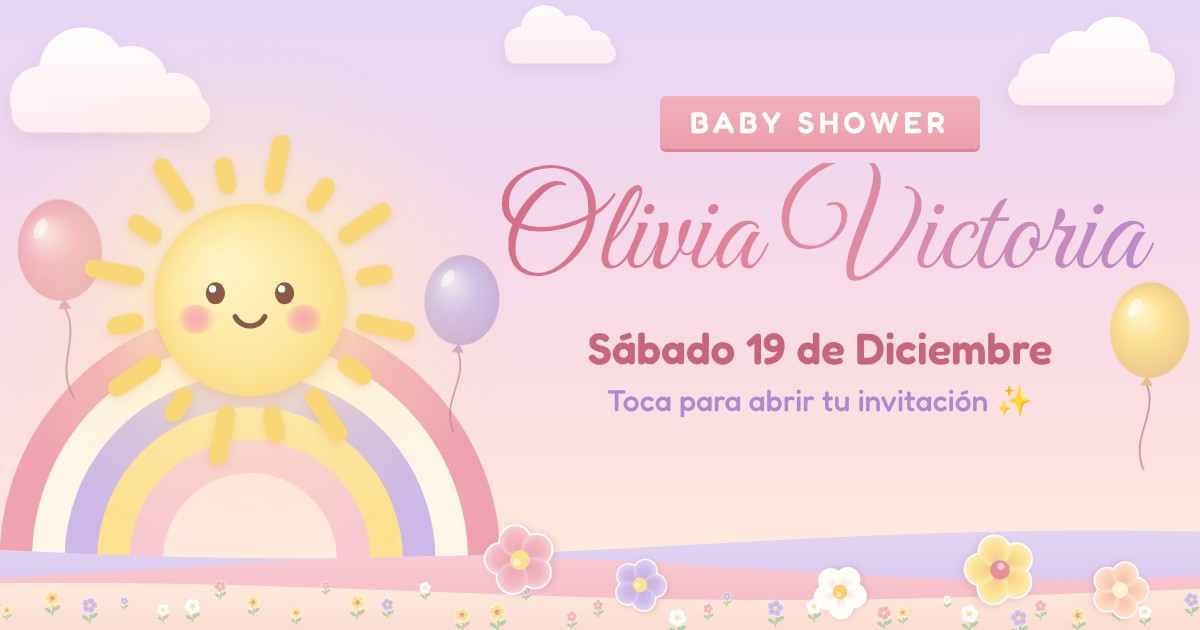
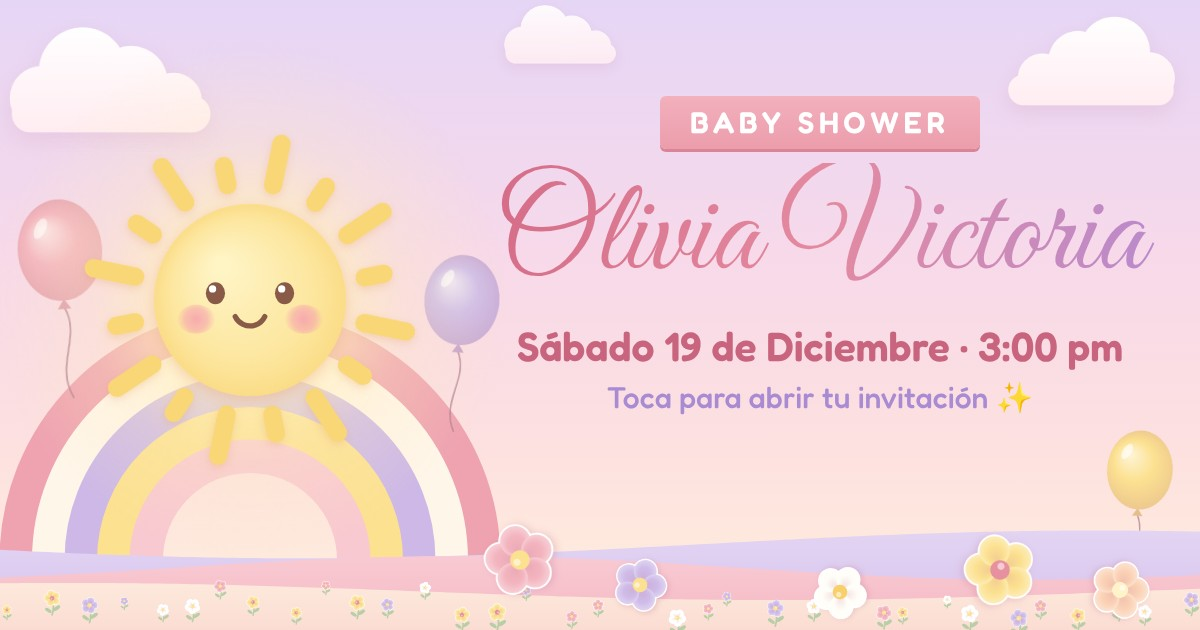
Hora del evento: 3:00 pm hora de Managua
Se muestra en la tarjeta y en la vista previa; la cuenta regresiva y el
evento de calendario usan la hora exacta (UTC-6).

Claude-Session: https://claude.ai/code/session_01DMYB1rQQsUbjXNTmh5CJFD

Changed region(s): [[0.4317, 0.4524, 1.0, 0.6635], [0.925, 0.6635, 0.9867, 0.8143]]

diff --git a/index.html b/index.html
@@ -4,13 +4,13 @@
 <meta charset="utf-8">
 <meta name="viewport" content="width=device-width, initial-scale=1, viewport-fit=cover, user-scalable=no">
 <title>Baby Shower de Olivia Victoria</title>
-<meta name="description" content="Acompáñanos a celebrar la dulce espera de Olivia Victoria. Sábado 19 de Diciembre · Residencial Sierras Doradas, Casa D-5.">
+<meta name="description" content="Acompáñanos a celebrar la dulce espera de Olivia Victoria. Sábado 19 de Diciembre, 3:00 pm · Residencial Sierras Doradas, Casa D-5.">
 <meta name="theme-color" content="#EBDCF6">
 <meta property="og:url" content="https://srbrightside.github.io/invitacion-babyshower/">
 <meta property="og:type" content="website">
 <meta property="og:locale" content="es_ES">
 <meta property="og:title" content="Baby Shower de Olivia Victoria ☀">
-<meta property="og:description" content="¡Estás invitado! Sábado 19 de Diciembre · Residencial Sierras Doradas, Casa D-5. Toca para abrir tu invitación.">
+<meta property="og:description" content="¡Estás invitado! Sábado 19 de Diciembre, 3:00 pm · Residencial Sierras Doradas, Casa D-5. Toca para abrir tu invitación.">
 <meta property="og:image" content="https://srbrightside.github.io/invitacion-babyshower/og.jpg">
 <meta property="og:image:width" content="1200">
 <meta property="og:image:height" content="630">
@@ -47,11 +47,16 @@
         <i></i>
       </div>
 
-      <div class="date rv" aria-label="Sábado 19 de Diciembre de 2026">
+      <div class="date rv" aria-label="Sábado 19 de Diciembre de 2026, 3:00 de la tarde">
         <span class="date-side">Sábado</span>
         <span class="date-day"><b>19</b><small>2026</small></span>
         <span class="date-side">Diciembre</span>
       </div>
+
+      <p class="time rv">
+        <svg viewBox="0 0 24 24" width="17" height="17" aria-hidden="true"><circle cx="12" cy="12" r="9" fill="none" stroke="currentColor" stroke-width="2.4"/><path d="M12 7v5.300l3.300 2" fill="none" stroke="currentColor" stroke-width="2.400" stroke-linecap="round" stroke-linejoin="round"/></svg>
+        3:00 pm
+      </p>
 
       <div class="countdown rv" id="countdown" aria-live="off">
         <div class="cd"><b id="cdD">--</b><span>días</span></div>
@@ -121,7 +126,7 @@
 <noscript>
   <div class="noscript">
     <h1>Baby Shower de Olivia Victoria Vargas Arce</h1>
-    <p>Sábado 19 de Diciembre · Residencial Sierras Doradas, Casa D-5</p>
+    <p>Sábado 19 de Diciembre, 3:00 pm · Residencial Sierras Doradas, Casa D-5</p>
     <p><a href="https://maps.app.goo.gl/cN2Evq2ijcGLDnuL6?g_st=ic">Cómo llegar</a></p>
   </div>
 </noscript>

diff --git a/js/main.js b/js/main.js
@@ -4,7 +4,7 @@ import {
 import { Sound } from './audio.js';
 
 // ───────────── Datos del evento ─────────────
-const EVENT = new Date(2026, 11, 19, 0, 0, 0); // Sábado 19 de diciembre de 2026
+const EVENT = new Date('2026-12-19T15:00:00-06:00'); // Sábado 19 de diciembre de 2026, 3:00 pm hora de Managua
 const GOAL = 10; // florecitas que lanza el Solcito para pintar el arcoíris
 
 const $ = (s) => document.querySelector(s);
@@ -485,7 +485,7 @@ function updateCountdown() {
   const ms = EVENT.getTime() - Date.now();
   if (ms <= 0) {
     el.countdown.hidden = true;
-    el.today.hidden = ms < -864e5;
+    el.today.hidden = ms < -9 * 36e5; // se muestra hasta la medianoche del día del evento
     return;
   }
   const s = Math.floor(ms / 1000);
@@ -724,7 +724,7 @@ if (navigator.share) {
   shareBtn.addEventListener('click', () => {
     navigator.share({
       title: 'Baby Shower de Olivia Victoria',
-      text: '¡Estás invitado al Baby Shower de Olivia Victoria! Sábado 19 de Diciembre.',
+      text: '¡Estás invitado al Baby Shower de Olivia Victoria! Sábado 19 de Diciembre, 3:00 pm.',
       url: location.href,
     }).catch(() => {});
   });
@@ -735,7 +735,7 @@ if (!/iPhone|iPad|iPod|Macintosh/.test(navigator.userAgent)) {
   const q = new URLSearchParams({
     action: 'TEMPLATE',
     text: 'Baby Shower de Olivia Victoria',
-    dates: '20261219/20261220',
+    dates: '20261219T210000Z/20261220T000000Z', // 3:00 pm a 6:00 pm en Managua (UTC-6)
     location: 'Residencial Sierras Doradas, Casa D-5',
     details: 'Baby Shower de Olivia Victoria Vargas Arce. Cómo llegar: https://maps.app.goo.gl/cN2Evq2ijcGLDnuL6',
   });

diff --git a/css/style.css b/css/style.css
@@ -339,11 +339,24 @@ button { font: inherit; color: inherit; border: 0; background: none; padding: 0;
   text-shadow: 0 3px 0 #FBD5DB;
 }
 
+.time {
+  display: inline-flex;
+  align-items: center;
+  gap: 6px;
+  margin: 8px 0 0;
+  padding: 4px 14px 5px 10px;
+  border-radius: 999px;
+  background: #F3ECFB;
+  font-weight: 700;
+  font-size: clamp(15px, 4.4vw, 17px);
+  letter-spacing: .04em;
+  color: #8E6FC0;
+}
 .countdown {
   display: grid;
   grid-template-columns: repeat(4, 1fr);
   gap: 7px;
-  margin: 14px auto 0;
+  margin: 10px auto 0;
   max-width: 280px;
 }
 .cd {
@@ -475,7 +488,9 @@ button { font: inherit; color: inherit; border: 0; background: none; padding: 0;
   .card { padding-bottom: 18px; }
   .honor { margin-top: 10px; }
   .divider { margin: 5px 0 6px; }
-  .countdown { margin-top: 10px; }
+  .time { margin-top: 5px; }
+  .countdown { margin-top: 8px; }
+  .cd { padding: 5px 0 5px; }
   .place { margin-top: 12px; }
   .actions { margin-top: 12px; }
 }
